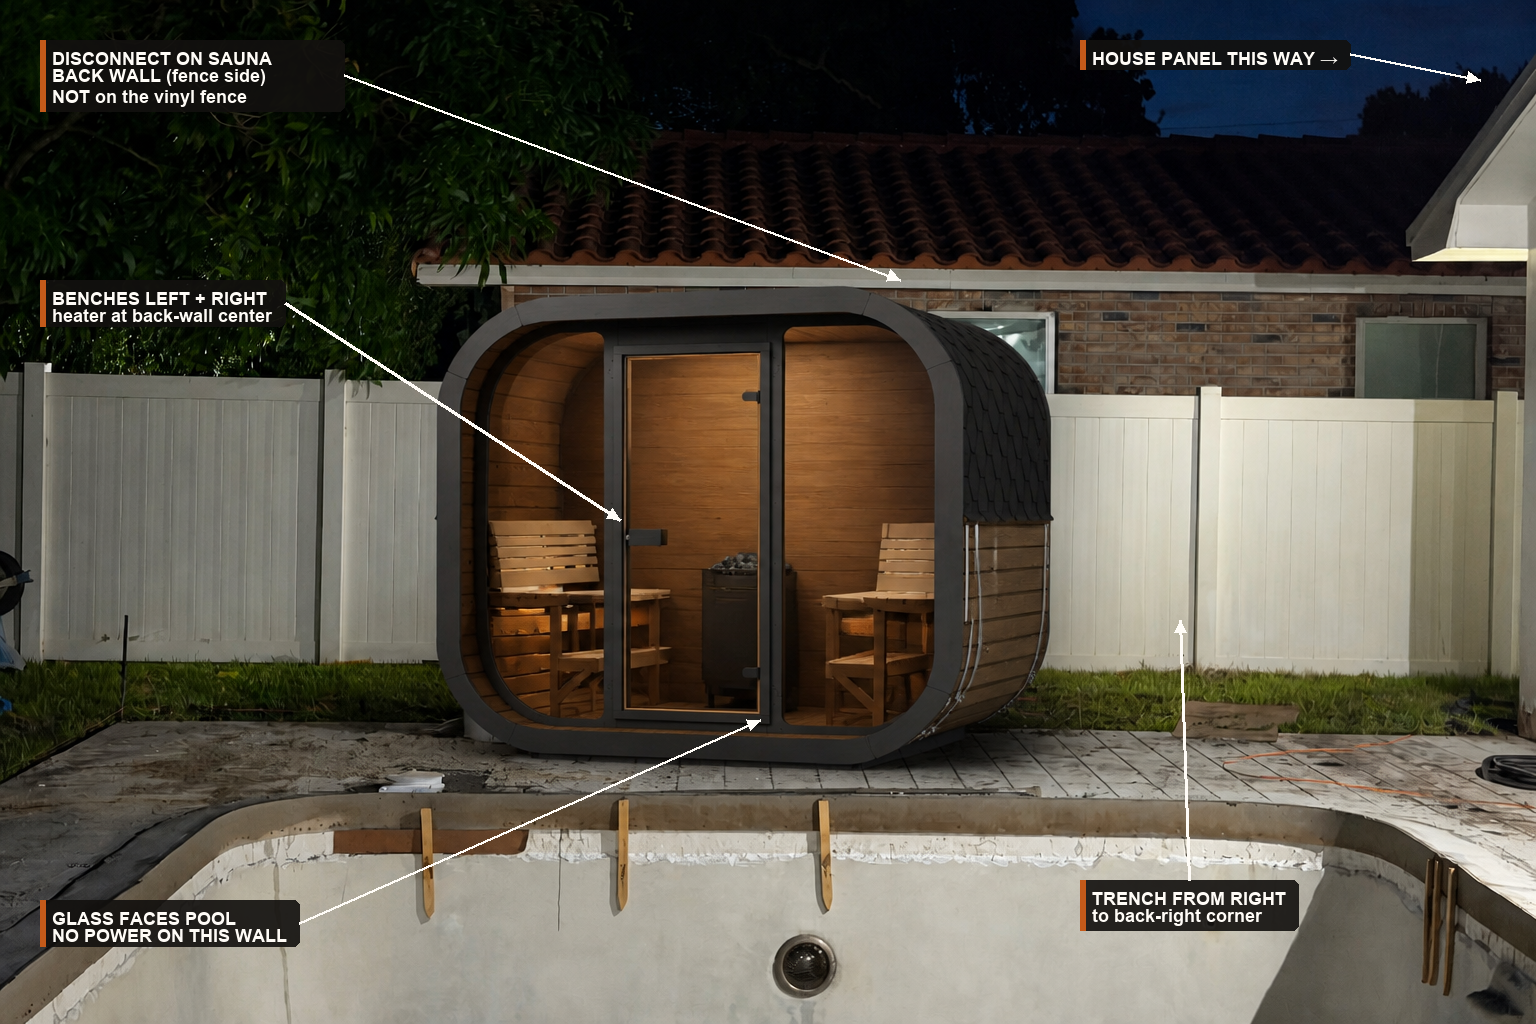
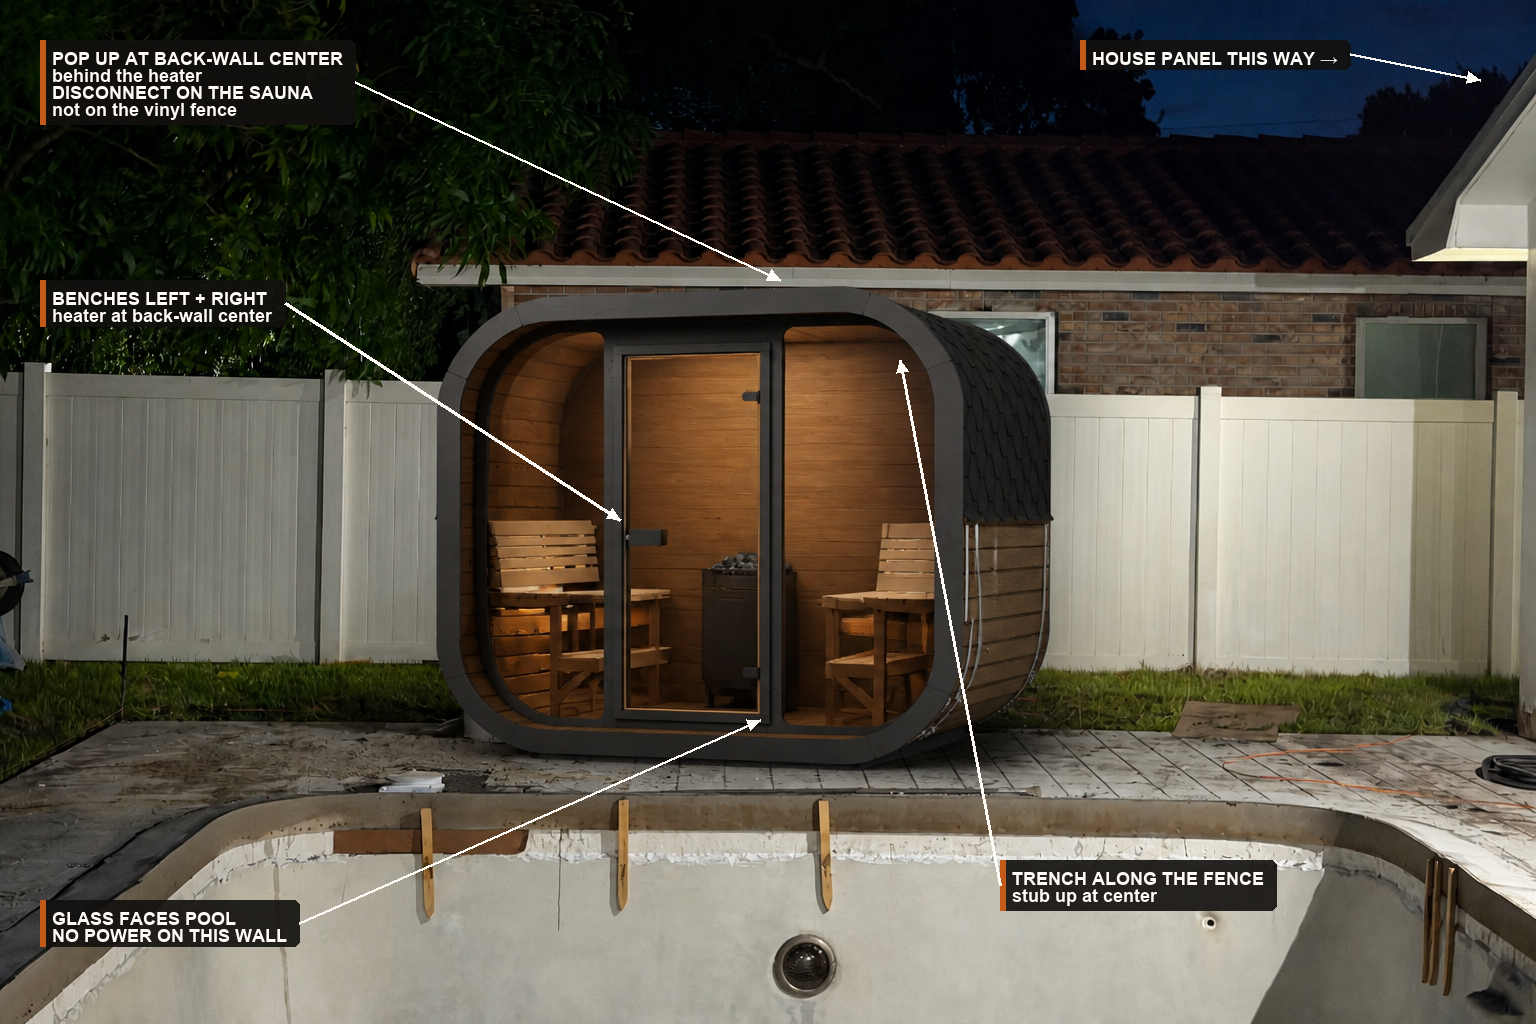
Route the feed along the fence and stub up at the sauna’s back-wall center, behind the heater.

diff --git a/apps/sauna-electrician/index.html b/apps/sauna-electrician/index.html
@@ -294,7 +294,7 @@
         These are the actual CL7G product photo and the install-manual drawings — not a generic 3D spa.
         Benches on the left and right. Heater on the back-wall center. Exterior disconnect on that
         same back wall (fence side of this lot), not on the vinyl fence. Glass faces the pool; no power there.
-        House panel is to the right, so the trench hits the back-right corner.
+        Trench along the fence from the house on the right; pop up at the back-wall center, behind the heater.
       </p>
       <div class="renders">
         <figure>
@@ -323,10 +323,10 @@
           </figcaption>
         </figure>
         <figure>
-          <img src="images/yard-real-cl7g.png" alt="This backyard with a CL7G on the pad: glass to the pool, power on the fence-facing back wall, trench from the house on the right" />
+          <img src="images/yard-real-cl7g.png" alt="This backyard with a CL7G on the pad: glass to the pool, trench along the fence, pop up at the back-wall center behind the heater" />
           <figcaption>
-            This yard. Exterior disconnect on the sauna’s back wall — not on the vinyl fence.
-            Trench from the house on the right.
+            This yard. Trench along the fence; pop up at the back-wall center, behind the heater.
+            Exterior disconnect on the sauna’s back wall — not on the vinyl fence.
           </figcaption>
         </figure>
       </div>
@@ -358,14 +358,15 @@
         The CL7G is a wood kit. Per the install manual, the heater sits on the empty
         center of the back wall, between the left and right benches. The Saunum Air L
         needs a splashproof interior J-box on that same wall, max 20 in from the floor.
-        House feed lands on the exterior of that back wall. Topture’s 1 Sep 2026 note
+        House feed lands on the exterior of that back wall, at the center, opposite the heater.
+        Trench along the fence and stub up in the service gap behind the cabin. Topture’s 1 Sep 2026 note
         matches this path; they left wall selection to the cabin layout.
       </div>
       <div class="grid-2">
         <div class="card">
           <h3>Put it here — back wall</h3>
           <p>The <b>solid back wall</b> (fence side when glass faces the pool). That is where the heater sits, between the left and right benches.</p>
-          <p><b>Outside that wall:</b> weatherproof enclosure with disconnect, AirIQ power unit, and the 90 W LED supply. Bias the box toward the house (right) so the trench is short. Near the coast use NEMA 4X stainless.</p>
+          <p><b>Outside that wall:</b> weatherproof enclosure with disconnect, AirIQ power unit, and the 90 W LED supply, centered on the back wall opposite the heater. Trench along the fence and stub up in the service gap behind the sauna. Near the coast use NEMA 4X stainless.</p>
           <p><b>Inside that wall:</b> splashproof J-box, max 20 in AFF, beside the heater. Heater cables are 5 ft. AirIQ power-unit cords are 16 ft.</p>
         </div>
         <div class="card">
@@ -413,13 +414,14 @@
 
     <section id="plan">
       <h2>Plan view — glass to the pool, power in the back wall</h2>
-      <p>Interior 87.5 in W × 70.8 in D × 85.5 in H. Benches on left and right. Heater on the back-wall center. Fan blows toward the door. House panel is off the right of this drawing.</p>
+      <p>Interior 87.5 in W × 70.8 in D × 85.5 in H. Benches on left and right. Heater on the back-wall center. Fan blows toward the door. Trench along the fence; stub up at the back-wall center. House panel is off the right of this drawing.</p>
       <div class="plan">
-        <svg viewBox="0 0 720 430" role="img" aria-label="CL7G plan: glass front toward pool, benches left and right, heater and electrical on the back wall">
+        <svg viewBox="0 0 720 430" role="img" aria-label="CL7G plan: glass front toward pool, benches left and right, heater and electrical at back-wall center, trench along the fence">
           <rect x="0" y="0" width="720" height="430" fill="#fffdf8"/>
-          <text x="360" y="22" text-anchor="middle" fill="#6b6558" font-size="13" font-family="IBM Plex Sans, sans-serif">Back wall · fence · heater + power</text>
+          <text x="360" y="22" text-anchor="middle" fill="#6b6558" font-size="13" font-family="IBM Plex Sans, sans-serif">Back wall · fence · heater + power at center</text>
+          <path d="M700 28 L330 28 L330 36" fill="none" stroke="#c45a1a" stroke-width="2" stroke-dasharray="6 4"/>
           <rect x="188" y="36" width="284" height="28" fill="#fff" stroke="#161410" stroke-dasharray="5 4"/>
-          <text x="330" y="54" text-anchor="middle" fill="#161410" font-size="11" font-family="IBM Plex Sans, sans-serif">Exterior box (bias right)</text>
+          <text x="330" y="54" text-anchor="middle" fill="#161410" font-size="11" font-family="IBM Plex Sans, sans-serif">Exterior box (back-wall center)</text>
           <rect x="170" y="72" width="320" height="248" fill="#f6f1e7" stroke="#161410" stroke-width="2"/>
           <rect x="170" y="72" width="320" height="12" fill="#c4b49a"/>
           <rect x="170" y="72" width="12" height="236" fill="#c4b49a"/>
@@ -440,9 +442,9 @@
           <text x="330" y="250" text-anchor="middle" fill="#c45a1a" font-size="10" font-family="IBM Plex Sans, sans-serif">fan → door</text>
           <text x="330" y="344" text-anchor="middle" fill="#3d6d8c" font-size="13" font-family="IBM Plex Sans, sans-serif">Front · glass + door · faces the pool · no power</text>
           <text x="560" y="200" fill="#6b6558" font-size="12" font-family="IBM Plex Sans, sans-serif">House panel →</text>
-          <text x="560" y="218" fill="#6b6558" font-size="11" font-family="IBM Plex Sans, sans-serif">trench to back-</text>
-          <text x="560" y="234" fill="#6b6558" font-size="11" font-family="IBM Plex Sans, sans-serif">right corner</text>
-          <text x="24" y="400" fill="#6b6558" font-size="11" font-family="IBM Plex Sans, sans-serif">Not to scale. Source: SaunaLife CL7G manual v2.1. Heater on back-wall center. Exterior box on that same wall, shifted toward the house.</text>
+          <text x="560" y="218" fill="#6b6558" font-size="11" font-family="IBM Plex Sans, sans-serif">trench along fence</text>
+          <text x="560" y="234" fill="#6b6558" font-size="11" font-family="IBM Plex Sans, sans-serif">pop up at center</text>
+          <text x="24" y="400" fill="#6b6558" font-size="11" font-family="IBM Plex Sans, sans-serif">Not to scale. Source: SaunaLife CL7G manual v2.1. Heater on back-wall center. Trench along the fence; stub up behind the heater. Exterior box on the sauna, not the vinyl fence.</text>
         </svg>
       </div>
     </section>
@@ -451,8 +453,8 @@
       <h2>House panel → sauna</h2>
       <ol class="steps">
         <li><b>Panel:</b> dedicated 240 V 1-phase, 70 A two-pole, #6+N+G copper (90 °C). No GFCI on this circuit. Confirm spare capacity before pulling — 70 A is a real load.</li>
-        <li><b>Run:</b> from the house on the right, buried conduit to the sauna’s back-right corner (fence side). Hollywood / Broward electrical permit. Disconnect in sight of the equipment.</li>
-        <li><b>Exterior enclosure</b> on the back wall (heater wall): disconnect + AirIQ power unit (IP44, 2.4 × 10.1 × 6.5 in) + LED 90 W supply / RF driver. Touch panel (IP20) in the same dry box. Do not mount it on the neighbor’s vinyl fence.</li>
+        <li><b>Run:</b> from the house on the right, buried conduit along the fence, stub up at the sauna’s back-wall center (behind the heater). Leave a service gap between the cabin and the vinyl fence. Hollywood / Broward electrical permit. Disconnect in sight of the equipment.</li>
+        <li><b>Exterior enclosure</b> on the sauna’s back wall at that center: disconnect + AirIQ power unit (IP44, 2.4 × 10.1 × 6.5 in) + LED 90 W supply / RF driver. Touch panel (IP20) in the same dry box. Do not mount it on the neighbor’s vinyl fence.</li>
         <li><b>Penetrate low</b> into the cabin. Interior splashproof J-box, max 20 in AFF. Heater bottom panel opens with two bolts underneath.</li>
         <li><b>Heater:</b> rear against cladding, 2 in side/front clearance for the solid-steel body (8 in / 10 in if the open stainless cage is used). 20 in clear in front of the fan. Air outlet below the lower bench.</li>
       </ol>
